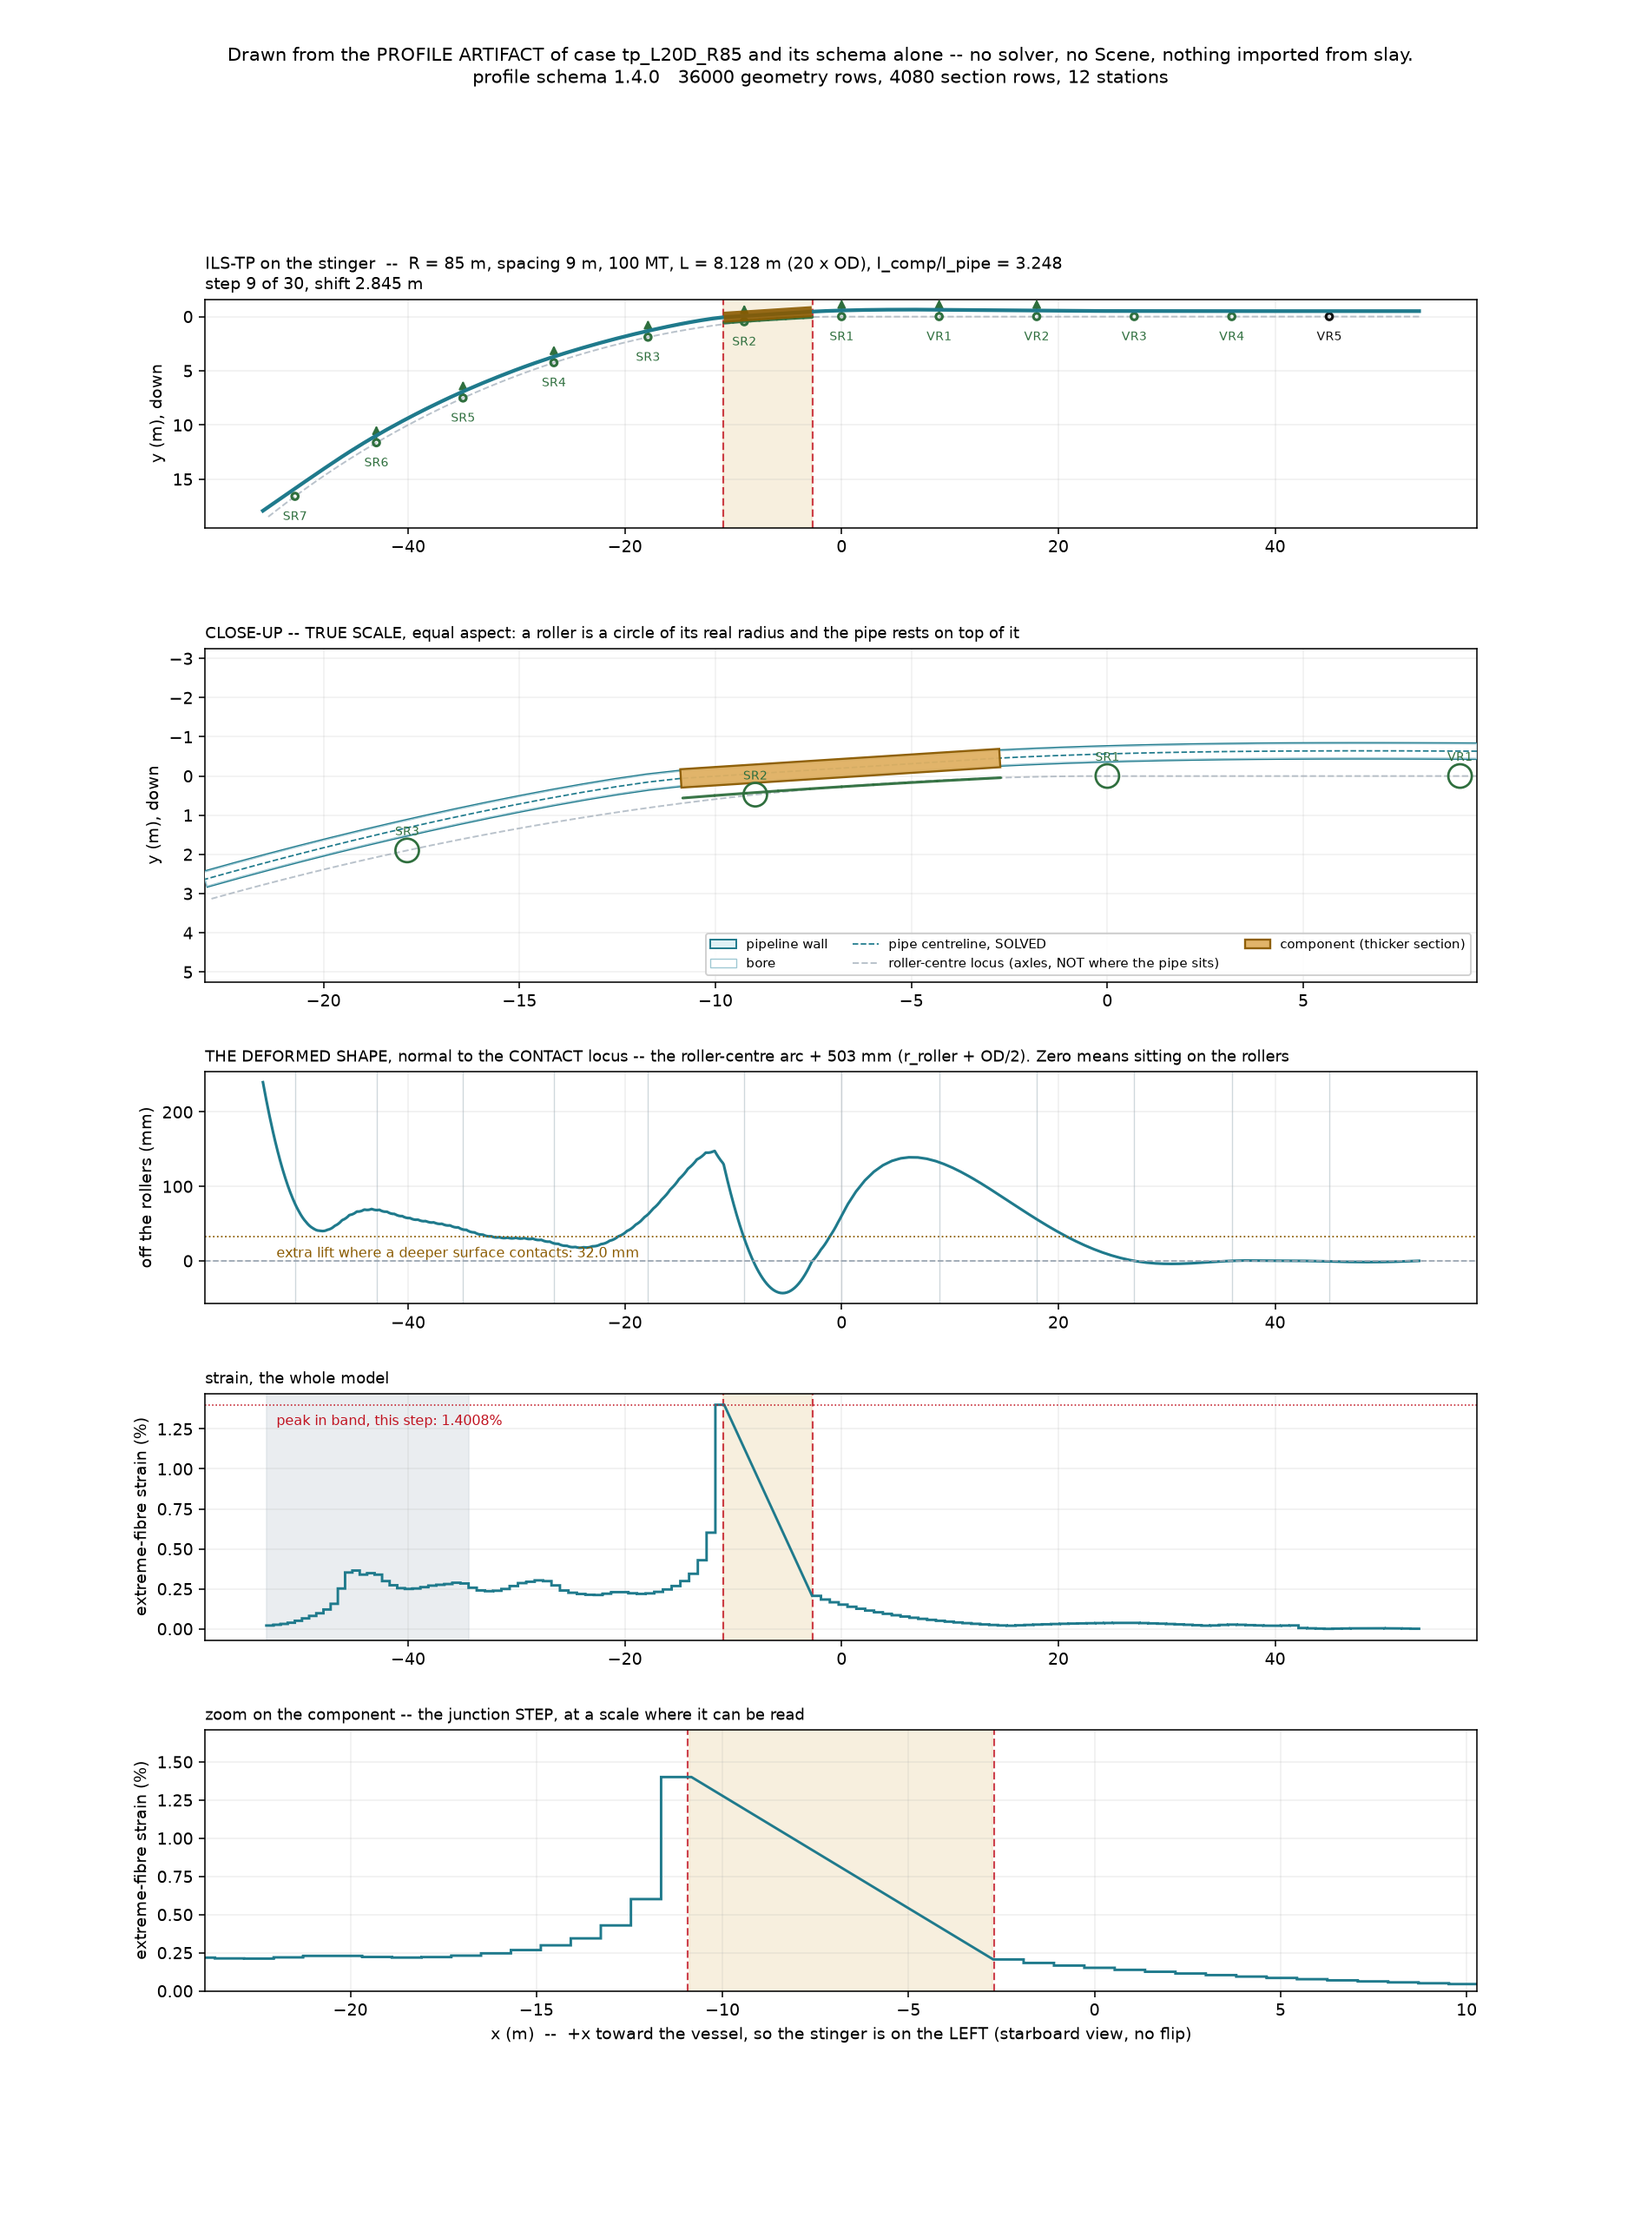
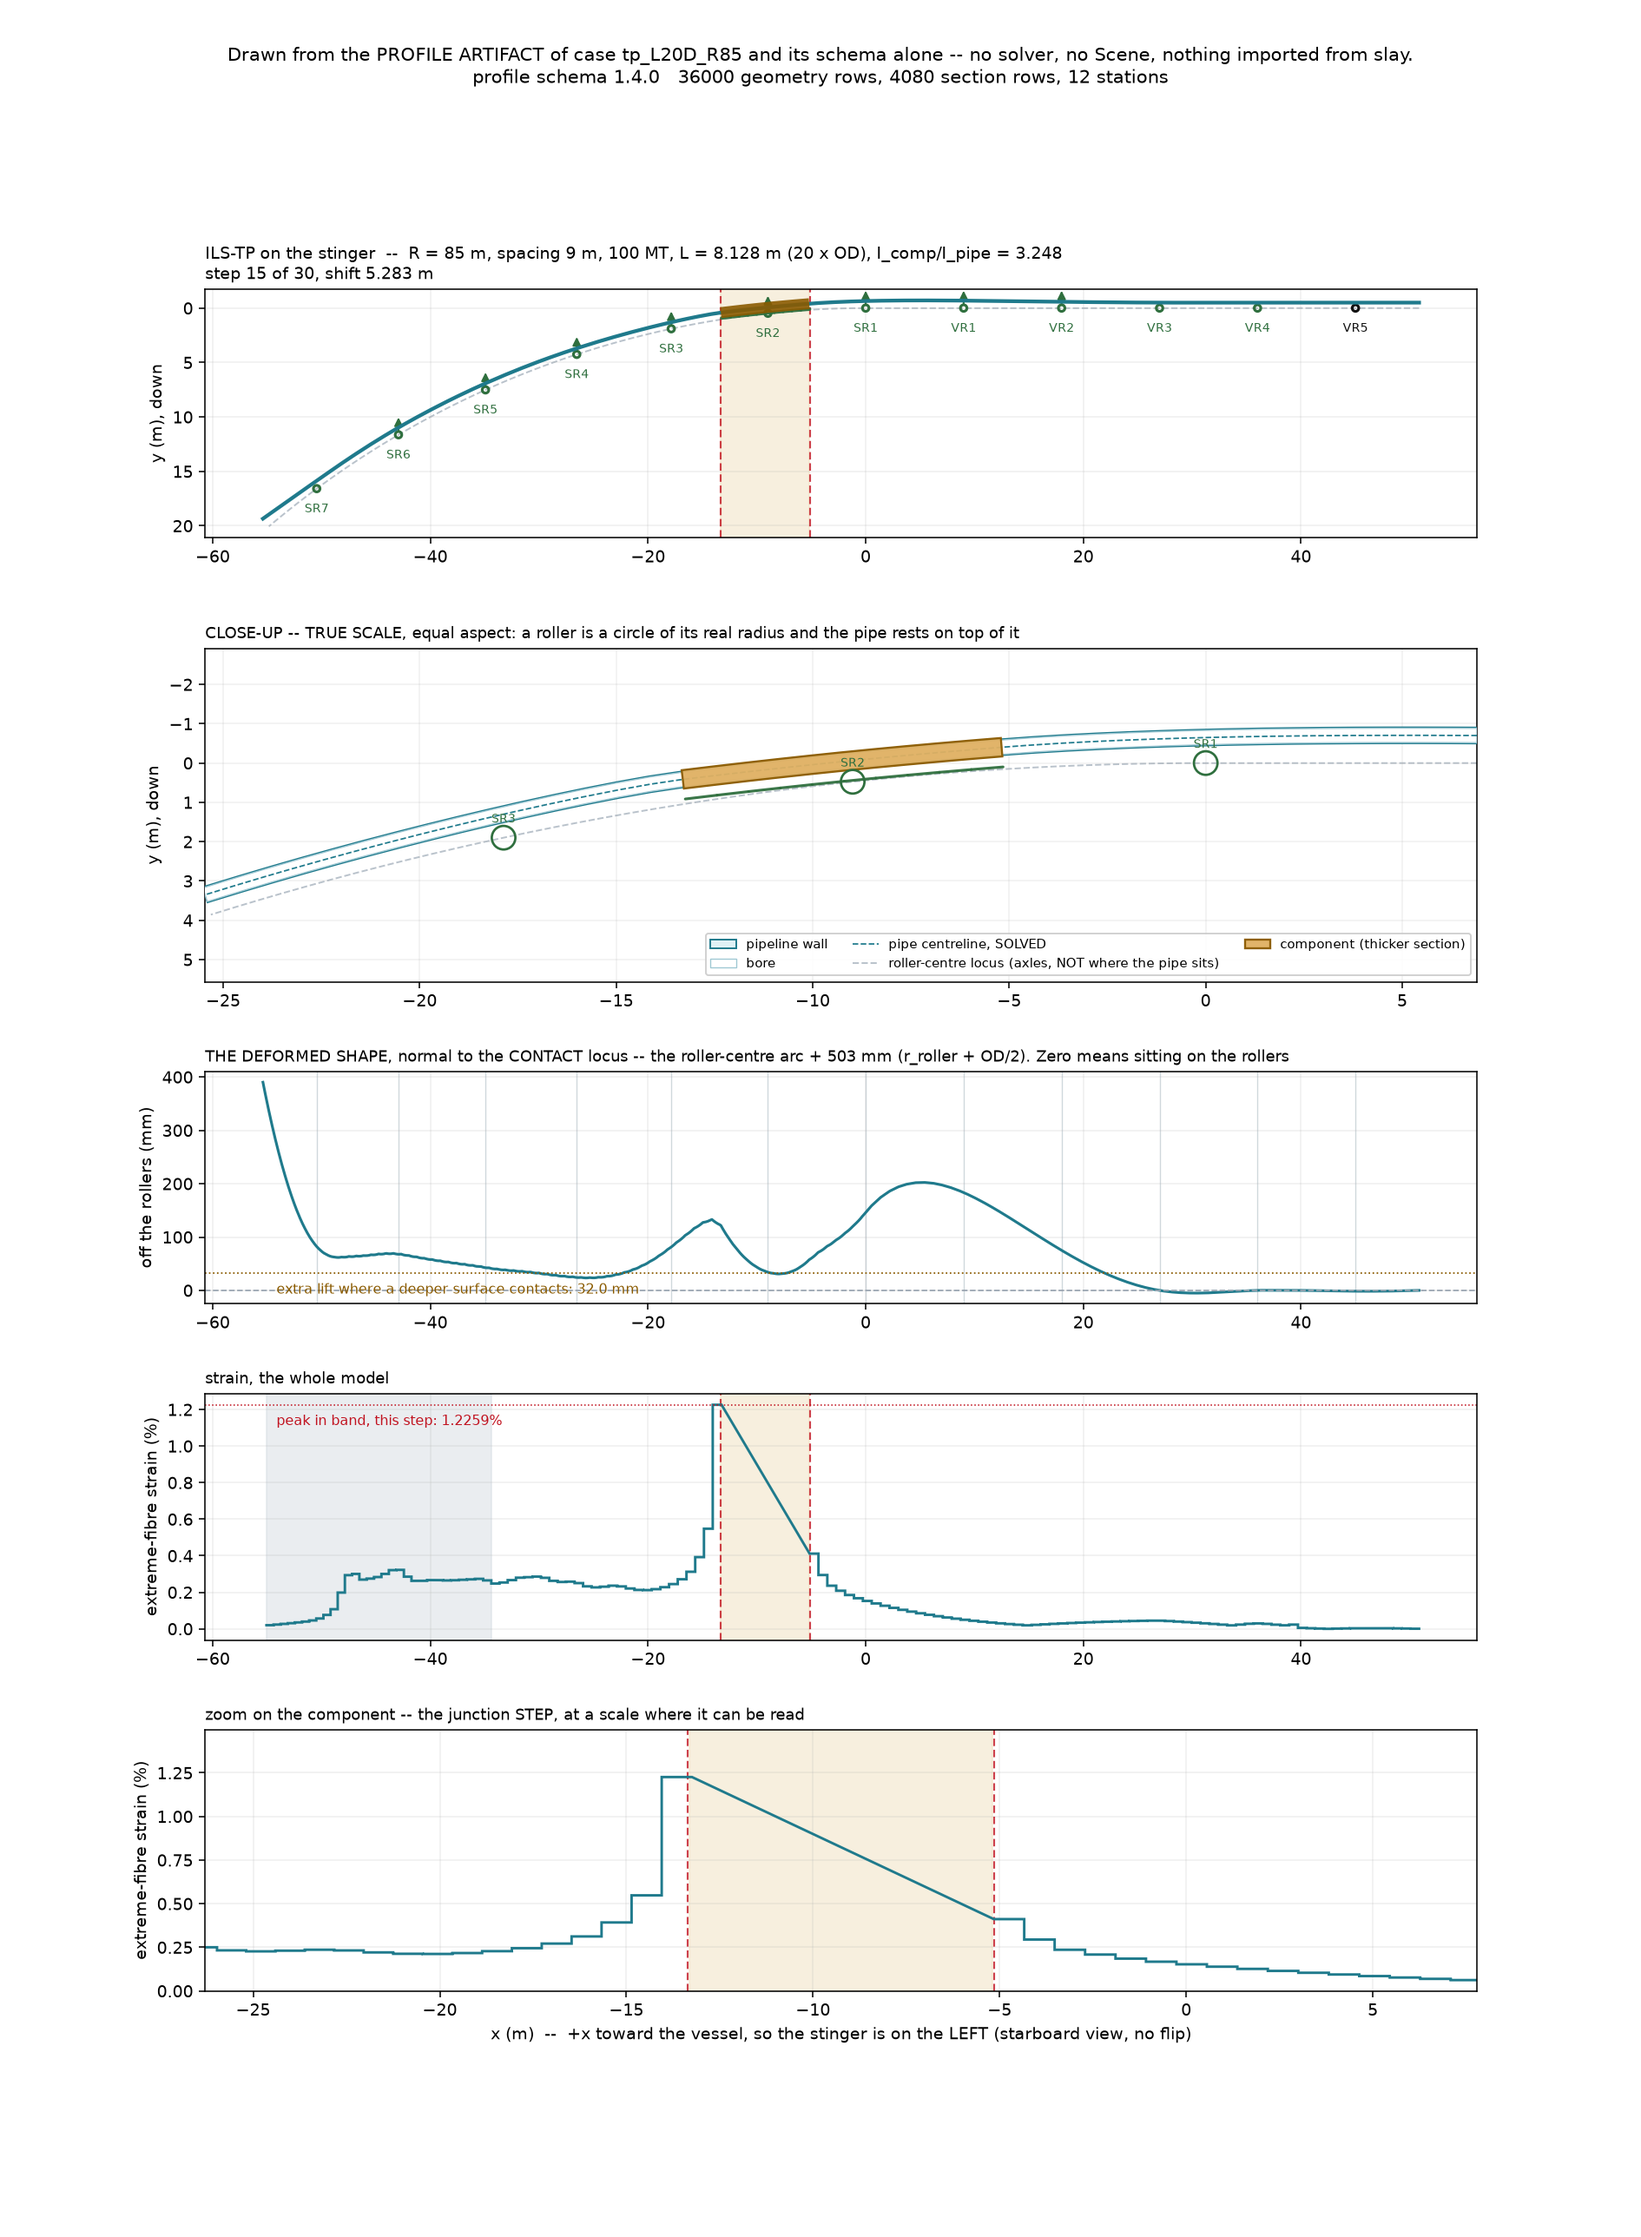
docs: redraw post-L100, and withdraw a reading that was exactly backwards
The governing step moved -- 9 to 15 at 20 D, 43 to 49 at 40 D -- so the
figures are redrawn at the step the component body actually carries its
maximum moment.

                            20 D step 15    40 D step 49
    body moment                 1848           3253 kN.m
    pipeline at that step       1196           1350 kN.m
    body / pipeline            +54.5%        +141.0%
    lift outboard of its end     133            254 mm
    deflection off its chord     -44           -292 mm

A READING FROM T043 IS WITHDRAWN AS EXACTLY BACKWARDS. The body was carrying
1.0 to 3.1 pct more moment than the pipeline either side of it, and I
recorded that as "the first POSITIVE evidence" that our component never
engaged a second roller the way the reference's does -- an internal
measurement that did not need the paper to interpret. It was evidence of the
DEFECT that prevented the engagement. Post-fix the separation is +54.5 pct
at 20 D and +141.0 at 40 D: a stiffer section doing what a stiffer section
should in a displacement-controlled bend.

The 608 mm bridging figure goes with it. The leading-end lift is now 254 mm
at 40 D, and the component's own deflection off its chord -- 292 mm, which
the old drawing could not show at all because it drew the body as a straight
line between its junctions -- is most of what that number was measuring.

THE LESSON IS NOT THAT THE READING WAS WRONG BUT THAT IT WAS CONFIRMING. It
[…]

diff --git a/docs/validation/VALIDATION_v3.0_2026-10-06.md b/docs/validation/VALIDATION_v3.0_2026-10-06.md
@@ -227,42 +227,39 @@ moment are unchanged — the lift is a rigid translation — and so is every
 **Drawn at the governing step**, both cases, from the profile artifacts:
 `docs/diagrams/tp_L20D_R85_maxBM.png` and `tp_L40D_R85_maxBM.png` — the step
 at which the **component body** carries its maximum moment, which is what
-TABLE XXIV reports.
+TABLE XXIV reports. *Post-L100; the governing step itself moved, from 9 to
+15 and from 43 to 49.*
 
-| | 20 D, step 9 | 40 D, step 43 |
+| | 20 D, step 15 | 40 D, step 49 |
 |---|---|---|
-| shift | 2.845 m | 16.256 m — *exactly the component's own length* |
-| body moment | 1414 kN·m | 1518 kN·m |
-| peak strain | 1.4008% | 3.1043% |
-| component spans | x −10.8 … −2.7, over SR2 | x −24.0 … −8.1, over **SR2 and SR3** |
-| lift just outboard of its catenary end | 148 mm | **608 mm** |
-| lift on the component itself | −43 … 130 mm | −77 … **583 mm** |
+| shift | 5.283 m | 18.256 m |
+| body moment | 1848 kN·m | 3253 kN·m |
+| pipeline moment at that step | 1196 kN·m | 1350 kN·m |
+| **body / pipeline** | **+54.5%** | **+141.0%** |
+| component spans | x −13.3 … −5.2 | x −26.0 … −10.1 |
+| lift outboard of its catenary end | 133 mm | 254 mm |
+| lift on the component | 31 … 122 mm | 2 … 240 mm |
+| its deflection off its own chord | −44 mm | −292 mm |
 
-**At 40 D the component's leading end is bridging.** It sits mid-span
-between SR3 and SR4 with the pipe **608 mm above the roller arc** — it has
-not reached SR4 and is cantilevering off the stiff body. The strain peak,
-3.1%, is exactly at that junction. At 20 D the same feature is 148 mm.
+**The body now takes the load into itself, and that is the whole finding.**
+Before L100 the component carried 1–3% more moment than the pipeline either
+side of it; it now carries 54% and 141% more. That is a stiffer section doing
+what a stiffer section should in a displacement-controlled bend, and it could
+not happen while the body's interior nodes were held by no contact.
 
-That is the opposite of the mechanism Paper 1 credits for the saturation:
-the long component engaging a further roller and **sharing** load. Ours
-spans SR2 and SR3 and then bridges past SR4 rather than settling onto it,
-which is the same story the 3% body-to-pipeline separation tells from the
-other side.
+**So the reading recorded here before is withdrawn, and it was exactly
+backwards.** The 1–3% separation was offered as "the first positive evidence"
+that our component never engaged a second roller the way the reference's
+does. It was evidence of the defect that prevented it. The 608 mm bridging
+figure goes with it: the leading-end lift is now 254 mm at 40 D, and the
+component's own deflection — 292 mm off its chord, which the old drawing
+could not show at all — is most of what that number was measuring.
 
-*Two cautions on reading it that way.* It is one step of one case, and
-whether the bridge persists across the passage or is particular to
-shift = L is unchecked. And 608 mm of lift-off is physically possible in
-overbend but it is large — one-sided rollers cannot pull, so once the pipe
-lifts nothing in the model restores contact. Whether the reference's model
-would have made contact there is not something these figures can settle.
+*What the figures are good for now:* the component visibly bends, rests on
+the rollers it spans, and separates from the pipeline in moment. What they
+are not: a settled account of the remaining strain shortfall, which is
+−14.2% at 40 D and −31.6% at 20 D with the moments inside 7.7%.
 
-*One thing they do settle:* the 40 D maximum moment and maximum strain fall
-at the **same** step, which argues the late rise flagged in §7 is a real
-structural event rather than purely an artefact of where the reporting zone
-is cut.
-
-**The body carries only 1–3% more than the pipeline here, and that is itself
-a finding.** On a 2.5 D component the gap is 1.0%; at 40 D it is 3.1%. If
 the component were doing what the paper's saturation describes — spanning
 two rollers and taking the extra stiffness into its own section — the body
 would be pulling away from the pipeline as it lengthens, far more than this.
